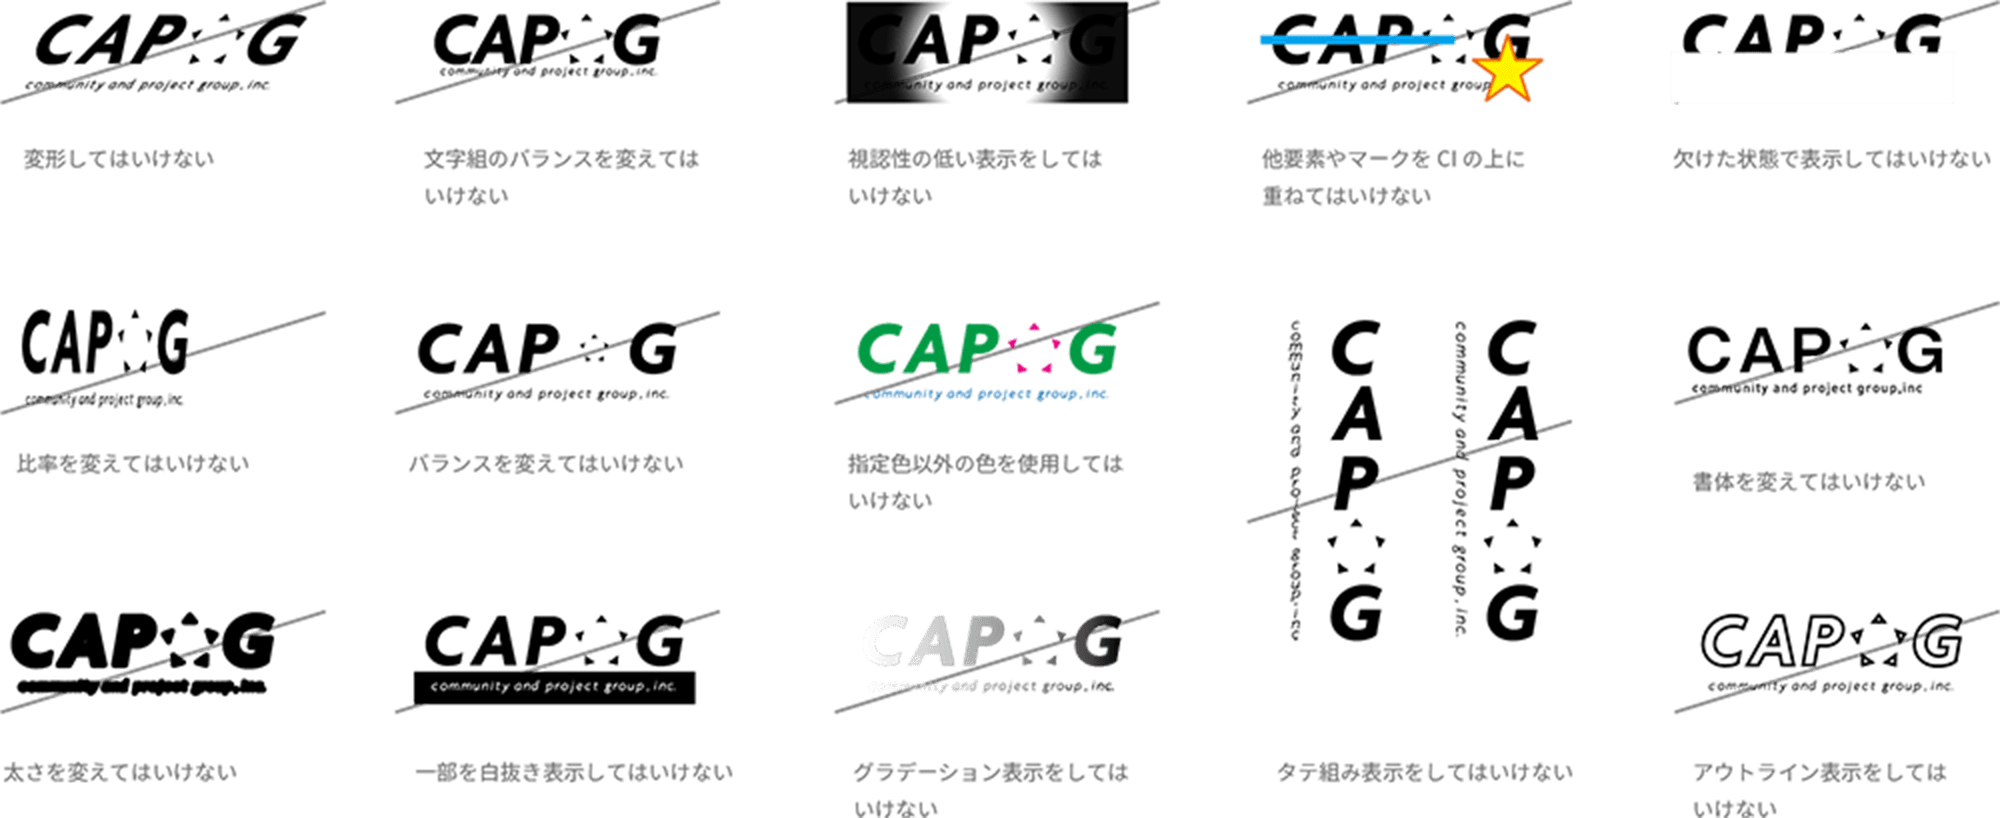
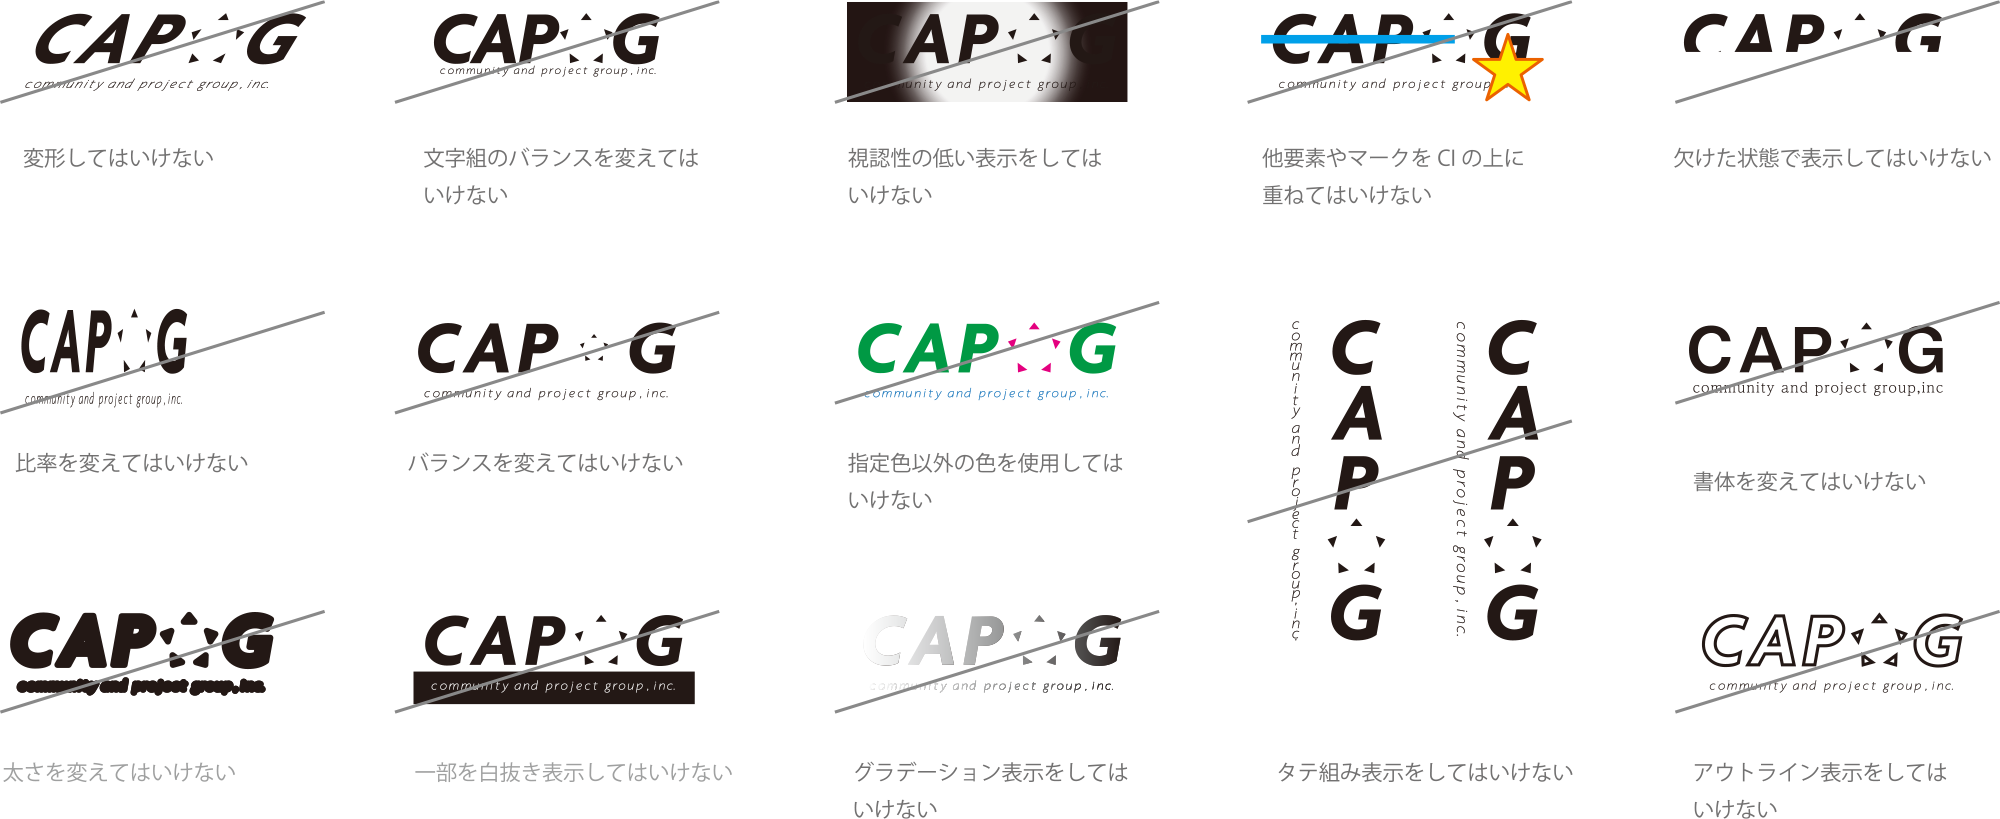
fixe fonts

diff --git a/docs/styles/index.css b/docs/styles/index.css
@@ -6325,7 +6325,7 @@ body {
     padding-top: 88px;
     font-size: 30px;
     line-height: 48px;
-    font-weight: 400;
+    font-weight: 500;
     color: #111;
 }
 
@@ -6342,8 +6342,9 @@ body {
     margin-bottom: 20px;
     font-size: 14px;
     line-height: 2;
-    font-family: brother_1816light;
+    font-family: brother_1816light, Noto Sans JP, sans-serif;
     color: #333;
+    font-weight: 300;
 }
 
 @media (max-width: 767px) {
@@ -6373,7 +6374,7 @@ body {
 
 .brand__post-title {
     margin-bottom: 18px;
-    font-family: brother_1816medium;
+    font-family: brother_1816medium, Noto Sans JP, sans-serif;
     font-size: 20px;
     line-height: 24px;
     font-weight: 500;
@@ -6384,6 +6385,11 @@ body {
     .brand__post-title {
         font-size: 21px;
         line-height: 25px;
+    }
+
+    h3.brand__post-title {
+        font-size: 13px;
+        line-height: 28px;
     }
 }
 
@@ -6472,7 +6478,7 @@ body {
 }
 
 .brand__colors-list li {
-    font-family: brother_1816light;
+    font-family: brother_1816light, Noto Sans JP, sans-serif;
     font-weight: 300;
     font-size: 16px;
     line-height: 30px;
@@ -6508,7 +6514,7 @@ body {
     margin-left: 97px;
     margin-top: 36px;
     padding: 20px 25px;
-    font-family: brother_1816regular;
+    font-family: brother_1816regular, Noto Sans JP, sans-serif;
     font-size: 12px;
     line-height: 30px;
     color: #fff;
@@ -6553,7 +6559,7 @@ body {
     padding: 35px 10px;
     font-size: 14px;
     line-height: 16px;
-    font-family: brother_1816light;
+    font-family: brother_1816light, Noto Sans JP, sans-serif;
     font-weight: 300;
 }
 
@@ -6613,7 +6619,7 @@ body {
 
 .brand__example-info {
     margin-bottom: 15px;
-    font-family: brother_1816light;
+    font-family: brother_1816light, Noto Sans JP, sans-serif;
     font-size: 12px;
     line-height: 16px;
     color: #221815;
